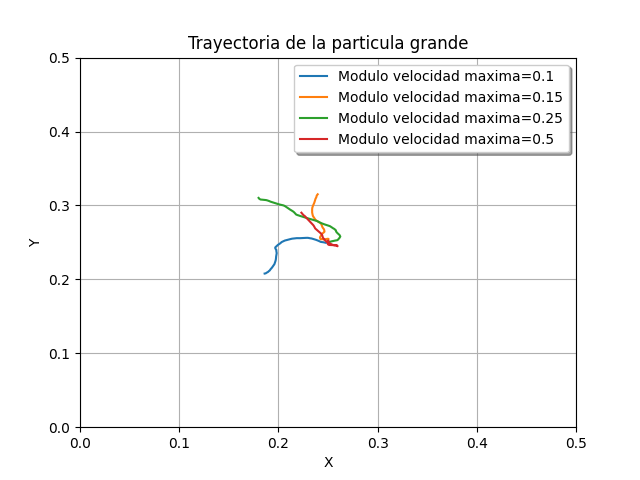
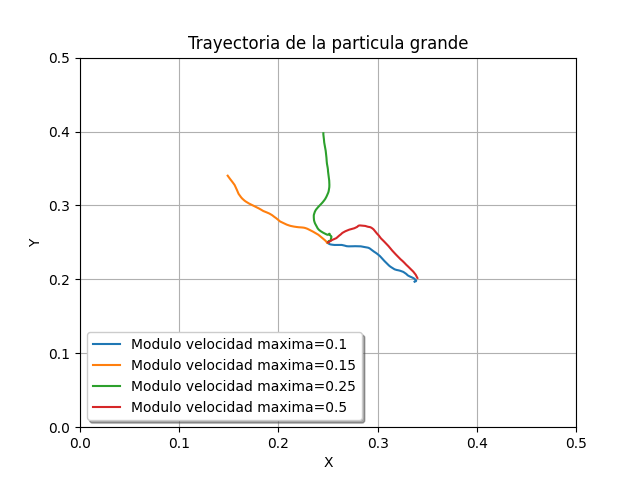
Temperatura

diff --git a/Python/BrownianMotion.py b/Python/BrownianMotion.py
@@ -4,6 +4,7 @@ import scipy
 from scipy import stats
 import seaborn as sns
 from matplotlib import pyplot as plt
+import scipy.constants
 
 N = [100]
 T = [60]
@@ -68,8 +69,18 @@ V = [0.1, 0.15, 0.25, 0.5]
 for i in range(0, len(V)):
     subprocess.call(['java', '-jar', './target/MolecularDinamic-jar-with-dependencies.jar', '-Dt=120', '-Dn=100'])
     big_particle_data = open('./big-particle-trajectory.txt', 'r').readlines()
+    static_data = open('./brownian-motion-static.txt', 'r').readlines()
+    dinamic_data = open('./brownian-motion-dinamic.txt', 'r').readlines()
+    dinamic_data = dinamic_data[1:]
+    static_data = static_data[2:]
+    temp = 0.0
+    for j in range(0, len(static_data)):
+        dinamic = dinamic_data[j].split(' ')
+        static = static_data[j].split(' ')
+        temp += ((float(dinamic[2])**2 + float(dinamic[3])**2) * (float(static[1])/1000)) / scipy.constants.physical_constants["Boltzmann constant"][0]  # paso a kg la masa
     x = []
     y = []
+    print(temp)
     for line in big_particle_data:
         position = line.split(',')
         x.append(float(position[0]))

diff --git a/src/main/java/ar/itba/edu/ss/systems/BrownianMotion.java b/src/main/java/ar/itba/edu/ss/systems/BrownianMotion.java
@@ -144,7 +144,7 @@ public class BrownianMotion {
             /* Adelantamos el tiempo */
             time = tc;
 
-            if (time < ((1 / 3.0) * simulationTime)) { // último tercio de la simulación
+            if (time > ((2 / 3.0) * simulationTime)) { // último tercio de la simulación
                 saveVelocities(thirdIterationVelocity);
                 thirdIterations++;
             }
